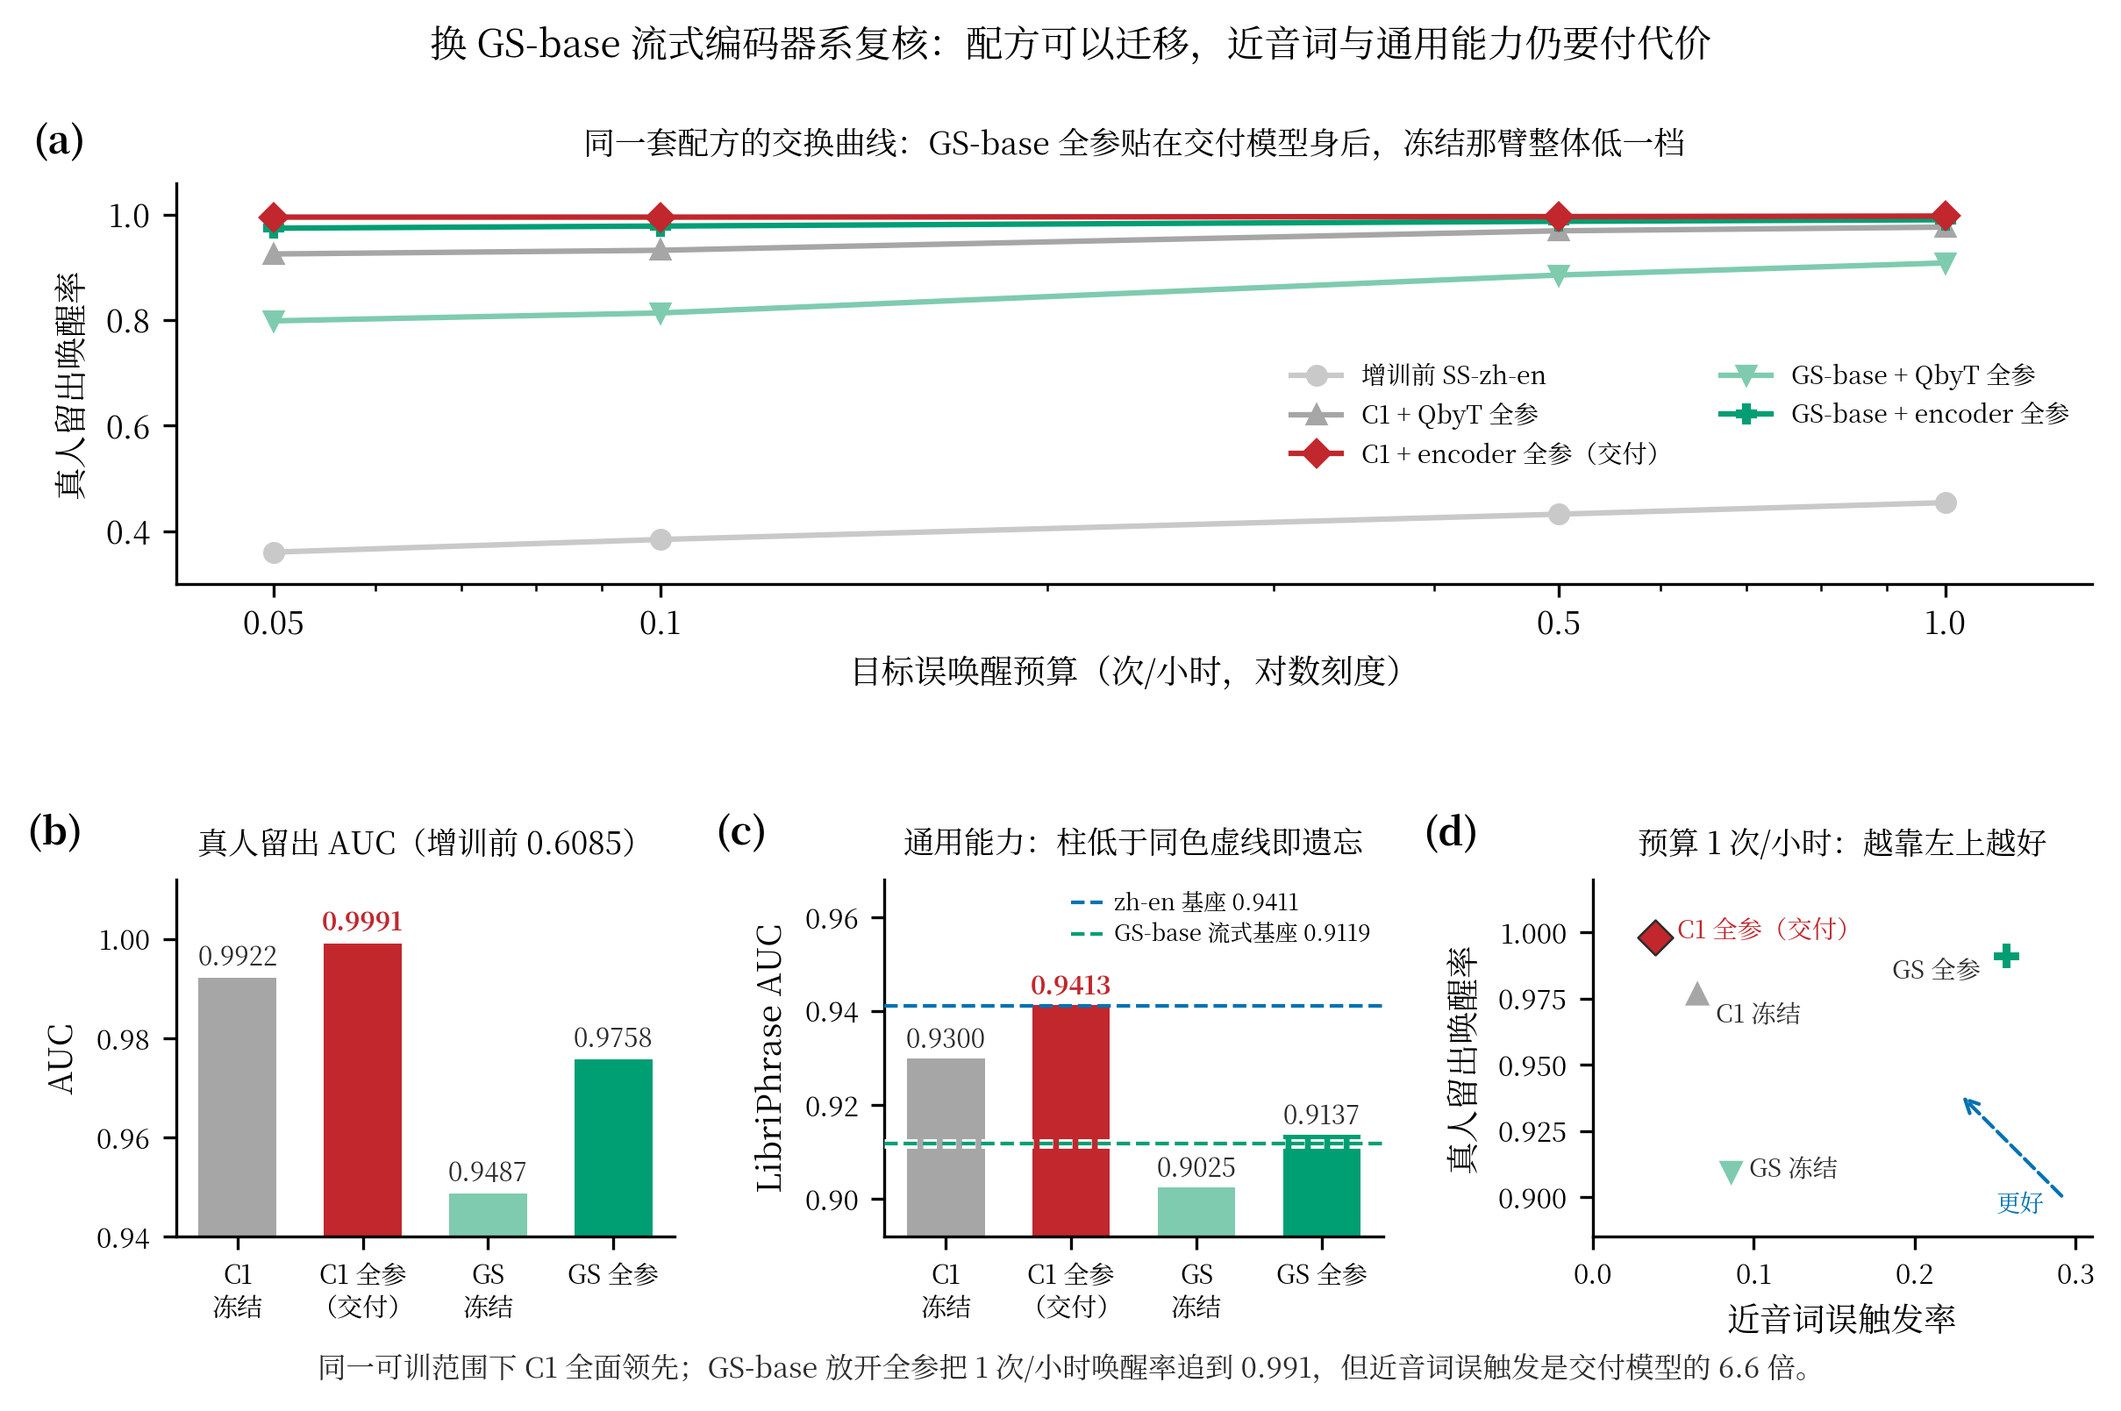
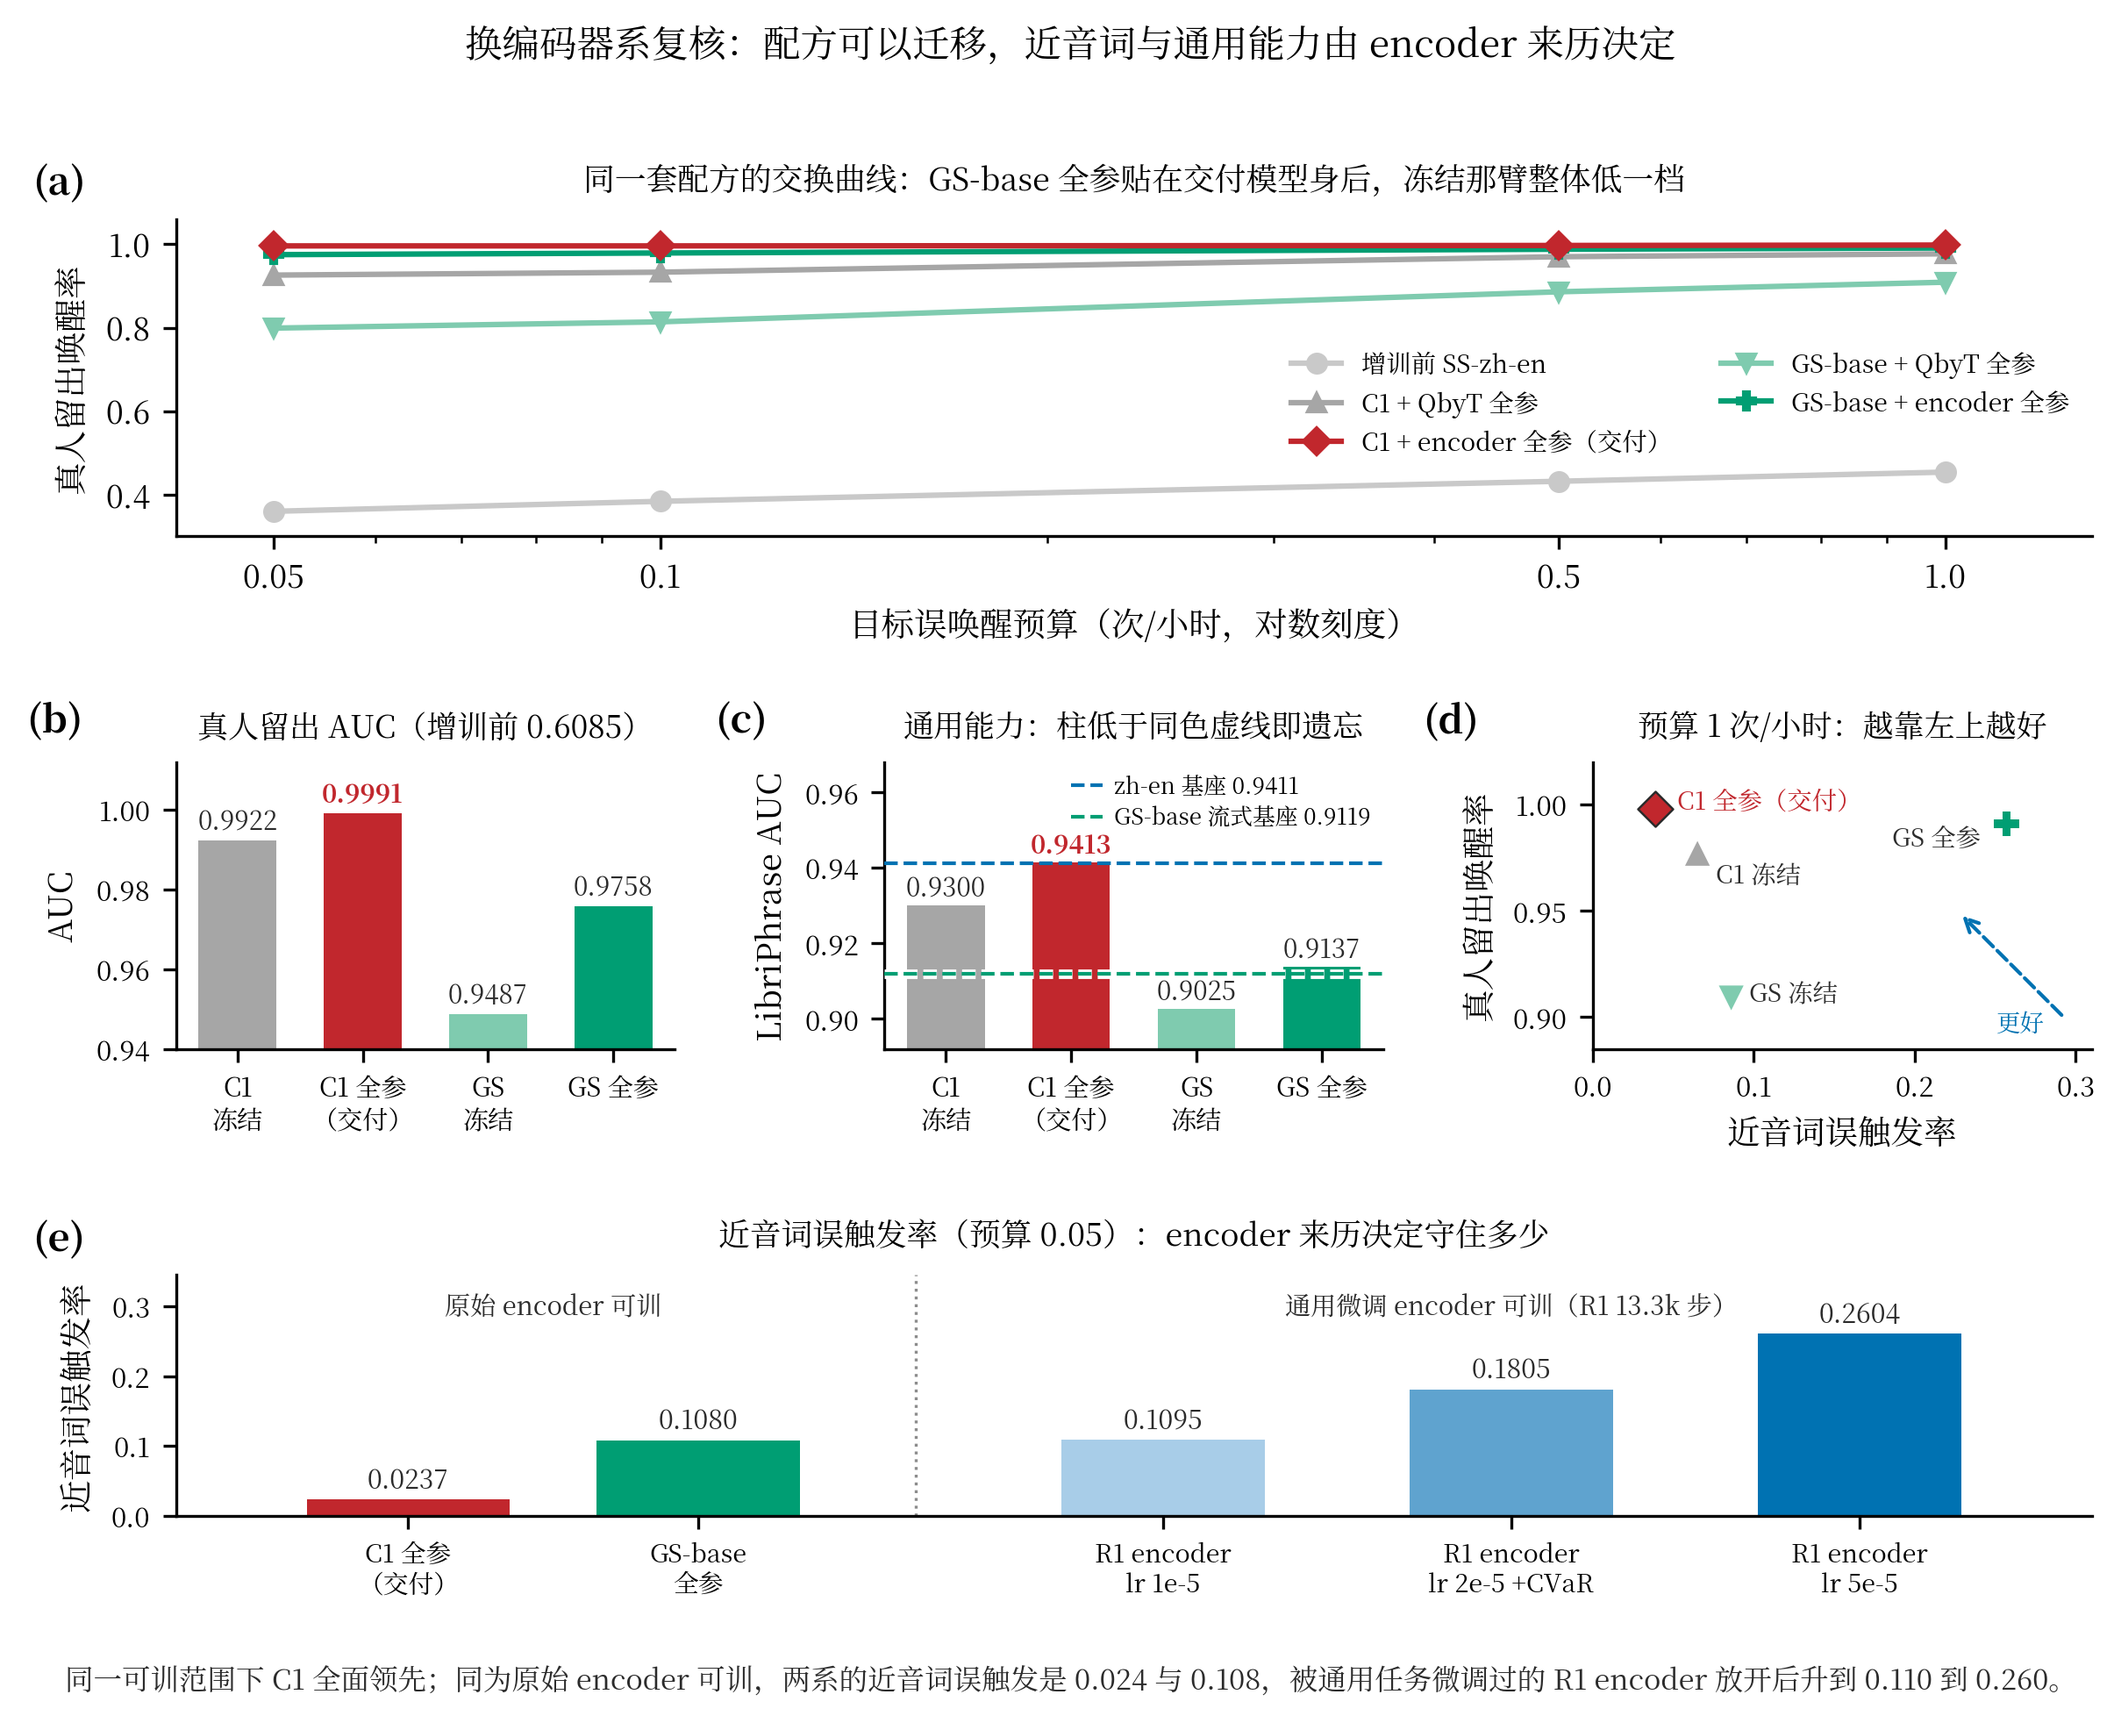
docs(report): add the encoder-provenance reading to the GS-base recheck
The provenance comparison turned into a fourth reading of the recheck: when the encoder is released during adaptation, what it was trained on before decides how much near-miss discrimination survives.

- Section 7.8 adds the matched-learning-rate comparison: at encoder lr 5e-5 and otherwise identical settings, near-miss trigger (budget 0.05) is 0.0237 for C1 (untouched zh-en-3M), 0.1080 for GS-base (untouched) and 0.2604 for R1, whose encoder an earlier 13.3k-step fine-tune had already moved. R1's lower encoder learning rates trade wake rate (0.870 / 0.936 against 0.965) for 0.1095 / 0.1805.
- Section 8.2 gains the fourth lesson: pick the base by encoder provenance, before training.
- The strategy document §6.12 gains the same reading as item 5.
- Figure 7-4 gains panel (e), the five-arm near-miss comparison, and the figure script grows the third row.

diff --git a/docs/report/gen_report_figs.py b/docs/report/gen_report_figs.py
@@ -531,8 +531,8 @@ def fig7_3():
 
 # ================================================ 图 7-4 换编码器系复核
 def fig7_4():
-    fig = plt.figure(figsize=(8.0, 5.2))
-    gs = GridSpec(2, 3, figure=fig, height_ratios=[1.12, 1.0], hspace=0.78, wspace=0.42)
+    fig = plt.figure(figsize=(8.0, 6.4))
+    gs = GridSpec(3, 3, figure=fig, height_ratios=[1.05, 0.95, 0.80], hspace=0.80, wspace=0.42)
     arms = ["C1\n冻结", "C1 全参\n（交付）", "GS\n冻结", "GS 全参"]
     cols = [MGRAY, RED, LGREEN, GREEN]
 
@@ -606,8 +606,27 @@ def fig7_4():
     ax_d.tick_params(labelsize=7.4)
     ax_d.set_title("预算 1 次/小时：越靠左上越好", fontsize=8.4, pad=7)
 
-    fig.suptitle("换 GS-base 流式编码器系复核：配方可以迁移，近音词与通用能力仍要付代价", y=1.0, fontsize=10.2)
-    fig.text(0.5, 0.012, "同一可训范围下 C1 全面领先；GS-base 放开全参把 1 次/小时唤醒率追到 0.991，但近音词误触发是交付模型的 6.6 倍。",
+    # (e) 近音词误触发：同配方、同 encoder 学习率，encoder 来历决定守住多少
+    ax = fig.add_subplot(gs[2, :]); plabel(ax, "(e)", x=-0.075, y=1.06)
+    pos = [0.0, 1.0, 2.6, 3.8, 5.0]
+    vals = [0.0237, 0.1080, 0.1095, 0.1805, 0.2604]
+    cols_e = [RED, GREEN, "#A8CDE8", "#5FA3CF", BLUE]
+    labs = ["C1 全参\n（交付）", "GS-base\n全参", "R1 encoder\nlr 1e-5",
+            "R1 encoder\nlr 2e-5 +CVaR", "R1 encoder\nlr 5e-5"]
+    ax.bar(pos, vals, 0.7, color=cols_e)
+    for x, v in zip(pos, vals):
+        ax.text(x, v + 0.007, f"{v:.4f}", ha="center", va="bottom", fontsize=7.2, color=DARK)
+    ax.axvline(1.75, color=GRAY, lw=0.8, ls=":")
+    ax.text(0.5, 0.318, "原始 encoder 可训", ha="center", va="top", fontsize=7.0, color=DARK)
+    ax.text(3.8, 0.318, "通用微调 encoder 可训（R1 13.3k 步）", ha="center", va="top", fontsize=7.0, color=DARK)
+    ax.set_xticks(pos); ax.set_xticklabels(labs, fontsize=6.9)
+    ax.set_xlim(-0.8, 5.8); ax.set_ylim(0, 0.345)
+    ax.set_ylabel("近音词误触发率")
+    ax.tick_params(axis="y", labelsize=7.4)
+    ax.set_title("近音词误触发率（预算 0.05）：encoder 来历决定守住多少", fontsize=8.6, pad=8)
+
+    fig.suptitle("换编码器系复核：配方可以迁移，近音词与通用能力由 encoder 来历决定", y=1.0, fontsize=10.2)
+    fig.text(0.5, 0.012, "同一可训范围下 C1 全面领先；同为原始 encoder 可训，两系的近音词误触发是 0.024 与 0.108，被通用任务微调过的 R1 encoder 放开后升到 0.110 到 0.260。",
              ha="center", fontsize=7.8, color=DARK)
     fig.subplots_adjust(left=0.075, right=0.985, top=0.885, bottom=0.115)
 

diff --git a/docs/hey-eva-adaptation-strategy.md b/docs/hey-eva-adaptation-strategy.md
@@ -899,7 +899,7 @@ C1 是 0.039 而 R1 是 0.283。见 §6.13。
 | GS-base 流式 + QbyT 全参 | GS-base 原始 | 冻结 | 0.909 | 0.955 | 2.608 | 0.145 | 0.0858 | 0.9025 |
 | GS-base 流式 + encoder 与 QbyT 全参 | GS-base 原始 | 可训 | 0.991 | 0.970 | 1.510 | 0.725 | 0.2574 | 0.9137 |
 
-按这套口径读出四件事：
+按这套口径读出五件事：
 
 1. C1 + encoder 与 QbyT 全参在两个预算下都是唤醒率最高的一档，1 次/小时下是 0.998。
 2. 背景误唤醒它在固定阈值下也是最低的一档，而且不调阈值时就已经是 0.000 / 4.049 / 0.000
@@ -911,6 +911,13 @@ C1 是 0.039 而 R1 是 0.283。见 §6.13。
    冻结 encoder 那臂是另一种取舍：TTS 留出反而更好（唤醒率 0.955 对 C1 冻结版的 0.909，
    TTS AUC 0.9975 对 0.9807），真人留出与通用能力落后一档（0.909 对 0.977，0.9025 对 0.9300）。
    两臂合起来说明配方可以迁移，换系换不到便宜。
+5. encoder 的来历决定它还能不能守住近音词。全表只有两格是原始 encoder 在增训里直接适配，
+   C1 + encoder 与 QbyT 全参（近音词 0.0237）和 GS-base 流式 + encoder 与 QbyT 全参（0.1080）。
+   反过来，基础 encoder 已经被通用任务微调过 13.3k 步的 R1 系，同样放开 encoder，
+   近音词误触发是 0.2604，高一个数量级。R1 系另外两臂把 encoder 学习率降到 1e-5、2e-5，
+   近音词回到 0.1095 与 0.1805，代价是唤醒率掉到 0.870 与 0.936。encoder 学习率同为 5e-5 时，
+   三个臂的近音词误触发是 0.0237（C1）、0.1080（GS-base）、0.2604（R1），其余设置逐项相同。
+   两组数据都指向同一条：encoder 之前被通用任务训得越多，增训时越难同时保住唤醒率和近音词判别力。
 
 一处读表提醒：1 次/小时那行，各模型的 MUSAN 与 LibriSpeech 数字并不等于 1.0，
 因为阈值是按两个语料合成的池子定的，具体落在哪个语料取决于该模型把哪一类背景排得更开。
